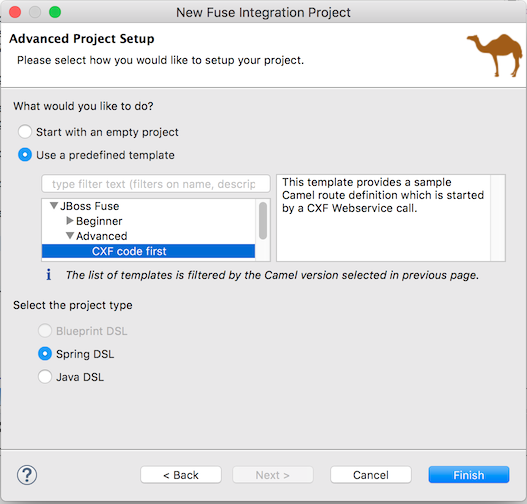
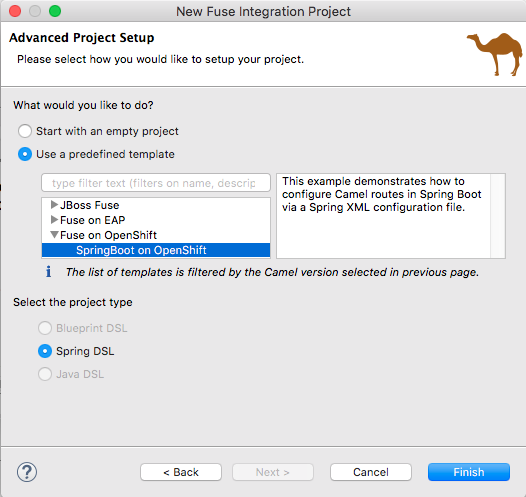
Updated SpringBoot lab

diff --git a/labs/10-migrate-rider-auto-ws.md b/labs/10-migrate-rider-auto-ws.md
@@ -1,6 +1,19 @@
 # Migrate the Rider-Auto-WS component to SpringBoot standalone
 
-This project demonstrates the migration of a Karaf-based SOAP webservice from [Rider Auto](https://github.com/RedHatWorkshops/rider-auto-osgi/tree/master/rider-auto-ws) to Fuse 7 standalone SpringBoot. 
+Fuse 7 introduces SpringBoot as a standalone container for Fuse integration apps.  Some key new topics centered around SpringBoot support are:
+
+* Not everything contained in the Fuse 7 SpringBoot BOM are supported.  Examples are Spring Data REST, Spring MVC, RabbitMQ and Spring Integration.  Instead, we  encourage the use of RestDSL, CXF, AMQ and Camel as supportable (and better) alternatives.
+
+* Use of JBDS Templates versus OIO Missions.  JBDS Templates are useful for Integrators who want to make use of the drag-and-drop tooling or develop with SpringXML.  OIO Missions are IDE-agnostic, therefore useful for power developers wanting an easily downloadable kickstart template project
+
+* Spring encourages the use of JavaDSL over SpringXML.  There are various tradeoffs between the two DSL's.  JavaDSL is better for power developers, IDE agnostic and better suited to the Spring bean-injection model.  SpringXML is better for Integrators who use the JBDS IDE tooling or prefer XML over Java for creating their integrations.
+
+Additionally, there are some cool features built into SpringBoot which are often overlooked, including:
+
+* Secrets mounting in SpringBoot apps
+* ConfigMap property injection
+
+This project demonstrates the migration of a Karaf-based SOAP webservice from [Rider Auto](https://github.com/RedHatWorkshops/rider-auto-osgi/tree/master/rider-auto-ws) to Fuse 7 standalone SpringBoot.
 
 ### Prerequisites
 
@@ -20,34 +33,52 @@ To begin, we need to create a Fuse SpringBoot project in JBDS.
 
 ![Type Project Name](images/10-Step-3.png)
 
-4. Chose the latest Camel version (2.21)
+4. Select Fuse 7 as the **Target Runtime**.
 
-5. Choose the predefined template under "JBoss Fuse", then select "Advanced", "CXF code first" and "Spring DSL".  Click Finish.
+![Type Project Name](images/10-Step-4.png)
+
+5. Choose the predefined template under "JBoss Fuse", then select "Fuse on OpenShift", "SpringBoot on OpenShift" and "Spring DSL".  Click Finish.
 
 ![Type Project Name](images/10-Step-5.png)
 
-6.  Now that we have a template project, let's update the pom.xml file.  Update the `artifactId` name to 'artifactId'.  Underneath camel-cxf component in dependencies, paste the following:
+6.  Now that we have a template project, let's update the pom.xml file.  Update the `artifactId` name to **rider-auto-ws**.  Underneath **camel-spring-boot-starter** component in dependencies, paste the following:
 
 ```
 		<dependency>
 			<groupId>org.apache.camel</groupId>
+			<artifactId>camel-core</artifactId>
+		</dependency>
+		<dependency>
+			<groupId>org.apache.camel</groupId>
+			<artifactId>camel-spring</artifactId>
+		</dependency>
+		<dependency>
+			<groupId>org.apache.camel</groupId>
+			<artifactId>camel-cxf</artifactId>
+		</dependency>
+		<dependency>
+			<groupId>org.apache.camel</groupId>
 			<artifactId>camel-amqp</artifactId>
-			<version>${camel.version}</version>
 		</dependency>
 		<dependency>
 			<groupId>org.apache.camel</groupId>
 			<artifactId>camel-bindy</artifactId>
-			<version>${camel.version}</version>
 		</dependency>
 		<dependency>
 			<groupId>org.apache.camel</groupId>
 			<artifactId>camel-csv</artifactId>
-			<version>${camel.version}</version>
 		</dependency>
 		<dependency>
 			<groupId>org.apache.camel</groupId>
 			<artifactId>camel-jaxb</artifactId>
-			<version>${camel.version}</version>
+		</dependency>
+		<dependency>
+			<groupId>org.apache.cxf</groupId>
+			<artifactId>cxf-rt-transports-http-jetty</artifactId>
+		</dependency>
+		<dependency>
+			<groupId>org.apache.cxf</groupId>
+			<artifactId>cxf-rt-frontend-jaxws</artifactId>
 		</dependency>
 ```
 
@@ -63,16 +94,9 @@ To begin, we need to create a Fuse SpringBoot project in JBDS.
         <property name="username" value="admin"/>
         <property name="password" value="admin"/>
     </bean>
-    <bean
-        class="org.springframework.jms.connection.CachingConnectionFactory" id="jmsCachingConnectionFactory">
-        <property name="targetConnectionFactory" ref="jmsConnectionFactory"/>
-    </bean>
-    <bean class="org.apache.camel.component.jms.JmsConfiguration" id="jmsConfig">
-        <property name="connectionFactory" ref="jmsCachingConnectionFactory"/>
-        <property name="cacheLevelName" value="CACHE_CONSUMER"/>
-    </bean>
     <bean class="org.apache.camel.component.amqp.AMQPComponent" id="amqp">
-        <property name="configuration" ref="jmsConfig"/>
+ <property name="connectionFactory" ref="jmsConnectionFactory" />
+
     </bean>
     <cxf:cxfEndpoint address="http://localhost:8183/cxf/order"
         id="orderEndpoint" serviceClass="org.fusesource.camel.ws.OrderEndpoint"/>
@@ -97,7 +121,7 @@ To begin, we need to create a Fuse SpringBoot project in JBDS.
 Notice we've updated the JMS endpoint to point to AMQ 7 using the AMQP protocol.
 
 8. Save the camel-context.xml file.
-9. Now we need to migrate the Order POJO and Endpoint.  First, delete the existing package and contents under `src/main/java`.  Copy `../10-artifacts/Order.java` to your new rider-auto-ws project, and paste it into a new source package called `org.fusesource.camel.model`.
+9. Now we need to migrate the Order POJO and Endpoint. First, create a new source package called `org.fusesource.camel.model`. Copy `../10-artifacts/Order.java` to the new package.
 10.  Do the same for `../10-artifacts/OrderEndpoint.java`, except paste it into a new package called `org.fusesource.camel.ws`.
 11. Create a new package structure under `src/main/resources/org/fusesource/camel/model/`.  Copy `../10-artifacts/jaxb.index` to the new package.
 12. If everything compiles, try right-clicking on the `camel-context.xml` file and selecting "Run As" and then "Local Camel Context".
